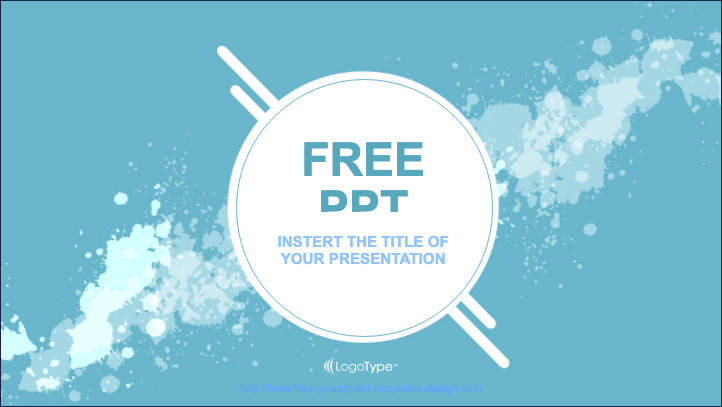
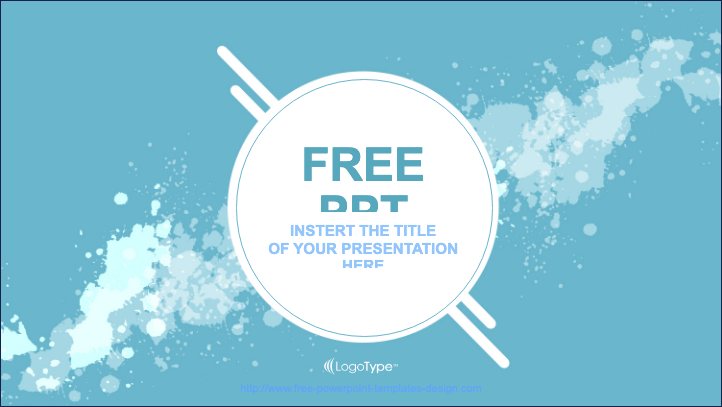
Refine badge-cover text layout and refresh screenshot evidence
The remaining blue badge-cover slide was already close, so the next useful move
was a small typography/layout pass rather than another broad renderer change.
This stage tightens the badge title/subtitle box sizing and line-break handling,
then refreshes the screenshot/diff evidence so the sample report captures the
small but measurable lift on the badge-cover archetype.

Constraint: The paired PNG corpus remains the regression oracle, so badge-cover tweaks must be validated through regenerated screenshot artifacts
Constraint: Late-stage badge-cover fixes should stay narrowly scoped and avoid disturbing the stronger agenda/title-slide cases
Rejected: Batch multiple unrelated renderer experiments into this step | the remaining gap on the badge-cover slide was narrow and easier to judge in isolation
Rejected: Leave the refreshed screenshots uncommitted | it would weaken the evidence trail for the measured score lift
Confidence: medium
Scope-risk: narrow
Reversibility: clean
Directive: Treat late-stage cover-slide refinements as small, archetype-specific passes backed by fresh screenshot evidence
Tested: npm run build --workspace @ooxml/example-basic; npm run quality:ppt-sample-screenshots; sample6 slide1 score improved to 90.48
Not-tested: Full repo verification suite and final closure of the remaining LLM-flagged hero slides

Changed region(s): [[0.3657, 0.3243, 0.6399, 0.6781]]

diff --git a/examples/basic/src/main.ts b/examples/basic/src/main.ts
@@ -306,6 +306,11 @@ app.innerHTML = `
         text-align: center;
       }
 
+      .preview-shell .ooxml-pptx-slide-canvas.is-title-slide-badge .ooxml-pptx-shape.is-decorative {
+        border-style: dashed;
+        box-shadow: inset 0 0 0 2px rgba(105, 182, 204, 0.2);
+      }
+
       .preview-shell .ooxml-pptx-slide-canvas.is-content-slide .ooxml-pptx-shape.kind-body .ooxml-pptx-shape-content,
       .preview-shell .ooxml-pptx-slide-canvas.is-content-slide .ooxml-pptx-shape.kind-subtitle .ooxml-pptx-shape-content {
         font-size: 1.05rem;
@@ -831,6 +836,9 @@ function enhancePresentationPreview(): void {
         shape.classList.add('kind-footer');
       } else {
         shape.classList.add('kind-subtitle');
+        if (content && circleBadgeShape && body.includes(' OF YOUR ')) {
+          content.textContent = body.replace(' OF YOUR ', '\nOF YOUR ');
+        }
         if (content && !textColor) {
           content.style.color = darkBackground ? '#93c5fd' : '#57A7BD';
         }
@@ -840,10 +848,10 @@ function enhancePresentationPreview(): void {
         const circleY = (Number(circleBadgeShape.dataset.y ?? 0) / cy) * 100;
         const circleW = (Number(circleBadgeShape.dataset.cx ?? 0) / cx) * 100;
         const circleH = (Number(circleBadgeShape.dataset.cy ?? 0) / cy) * 100;
-        shape.style.left = `${circleX + circleW * 0.12}%`;
-        shape.style.width = `${circleW * 0.76}%`;
-        shape.style.height = rank === 0 ? `${circleH * 0.30}%` : `${circleH * 0.14}%`;
-        shape.style.top = `${circleY + (rank === 0 ? circleH * 0.22 : circleH * 0.60)}%`;
+        shape.style.left = `${circleX + circleW * 0.09}%`;
+        shape.style.width = `${circleW * 0.82}%`;
+        shape.style.height = rank === 0 ? `${circleH * 0.28}%` : `${circleH * 0.18}%`;
+        shape.style.top = `${circleY + (rank === 0 ? circleH * 0.24 : circleH * 0.56)}%`;
       }
       if (yellowTheme && !circleBadgeShape && content) {
         if (shape.classList.contains('kind-title')) {
